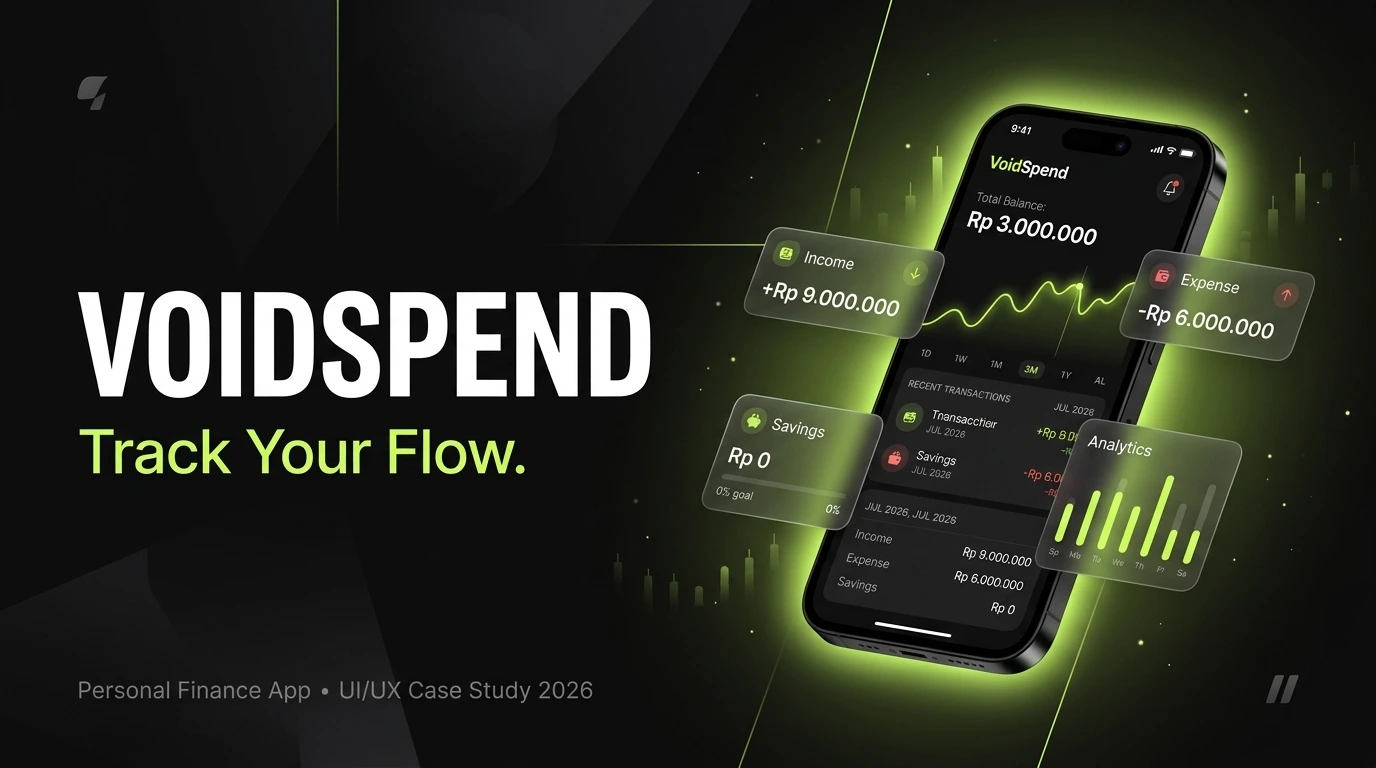
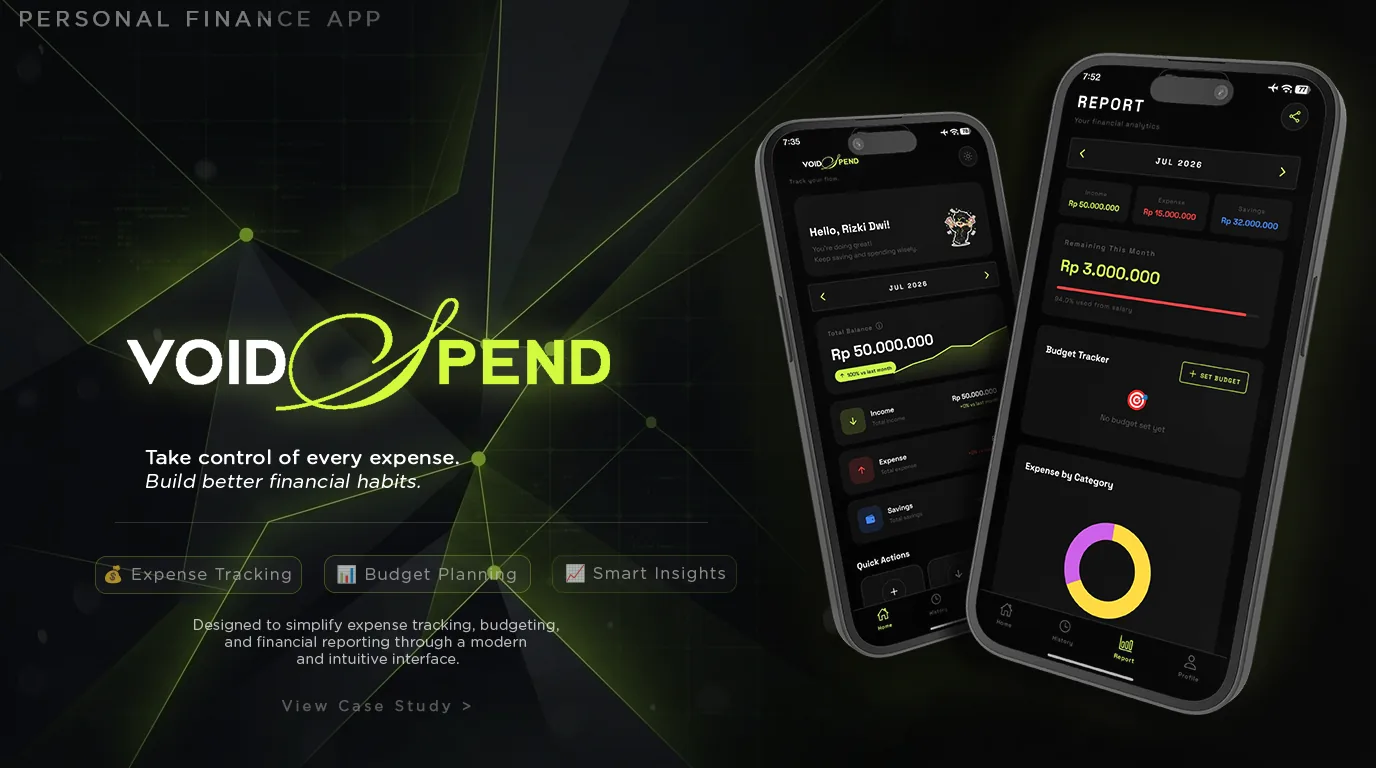
feat: voidspend case study gallery

diff --git a/public/assets/css/main.css b/public/assets/css/main.css
@@ -569,3 +569,20 @@ h1, h2, .approach__statement, .case__tagline { text-wrap: balance; }
     .timeline { padding-left: 32px; }
     .timeline__dot { left: -27px; }
 }
+
+/* case gallery */
+
+.case__gallery {
+    display: grid;
+    gap: var(--space-4);
+    margin-block: var(--space-5) var(--space-6);
+}
+.case__gallery figure {
+    border: 1px solid var(--ink-700);
+    overflow: hidden;
+}
+.case__gallery img {
+    width: 100%;
+    height: auto;
+    display: block;
+}

diff --git a/app/Controllers/Pages.php b/app/Controllers/Pages.php
@@ -40,4 +40,23 @@ class Pages extends BaseController
             'description' => $project['tagline'],
         ]);
     }
+
+    public function sitemap(): \CodeIgniter\HTTP\ResponseInterface
+    {
+        $urls = [base_url()];
+        foreach (array_keys($this->projects) as $slug) {
+            $urls[] = base_url('work/' . $slug);
+        }
+
+        $xml = '<?xml version="1.0" encoding="UTF-8"?>' . "\n";
+        $xml .= '<urlset xmlns="http://www.sitemaps.org/schemas/sitemap/0.9">' . "\n";
+        foreach ($urls as $url) {
+            $xml .= '  <url><loc>' . $url . '</loc></url>' . "\n";
+        }
+        $xml .= '</urlset>';
+
+        return $this->response
+            ->setContentType('application/xml')
+            ->setBody($xml);
+    }
 }

diff --git a/app/Views/pages/project.php b/app/Views/pages/project.php
@@ -61,6 +61,23 @@
         <p class="reveal"><?= esc($project['process']) ?></p>
     </div>
 
+    <?php if (! empty($project['gallery'])): ?>
+        <div class="case__gallery">
+            <?php foreach ($project['gallery'] as $img): ?>
+                <?php
+                    $imgPath = 'assets/img/' . $slug . '/' . $img;
+                    if (! is_file(FCPATH . $imgPath)) continue;
+                    $size = getimagesize(FCPATH . $imgPath);
+                ?>
+                <figure class="reveal">
+                    <img src="<?= base_url($imgPath) ?>" alt="<?= esc($project['title']) ?> — detail"
+                         width="<?= $size[0] ?>" height="<?= $size[1] ?>"
+                         loading="lazy" decoding="async">
+                </figure>
+            <?php endforeach ?>
+        </div>
+    <?php endif ?>
+
     <div class="case__section">
         <span class="meta case__label reveal">Outcome</span>
         <?php if (is_array($project['outcome'])): ?>

diff --git a/app/Config/Routes.php b/app/Config/Routes.php
@@ -7,3 +7,4 @@ use CodeIgniter\Router\RouteCollection;
  */
 $routes->get('/', 'Pages::index');
 $routes->get('work/(:segment)', 'Pages::project/$1');
+$routes->get('sitemap.xml', 'Pages::sitemap');

diff --git a/app/Data/projects.php b/app/Data/projects.php
@@ -39,6 +39,7 @@ return [
         'intent'   => 'Create a finance app where adding an expense takes only a few seconds. Every screen was designed to reduce friction, helping users focus on their financial habits rather than learning the interface.',
         'process'  => 'The experience began with simplifying the expense flow before designing the interface around it. Every layout, interaction, and visual hierarchy was refined to make the app feel clean, intuitive, and distraction-free.',
         'outcome'  => 'Designed as a tool I use daily — proof that consistent financial tracking becomes easier when the experience stays simple and enjoyable.',
+        'gallery'  => ['gallery-2.webp', 'gallery-3.webp', 'gallery-4.webp'],
         'next'     => 'lost-soul-supply',
     ],
 